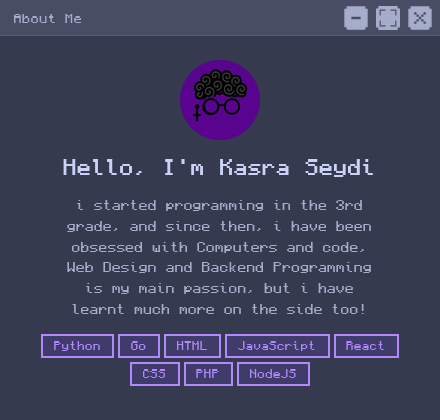
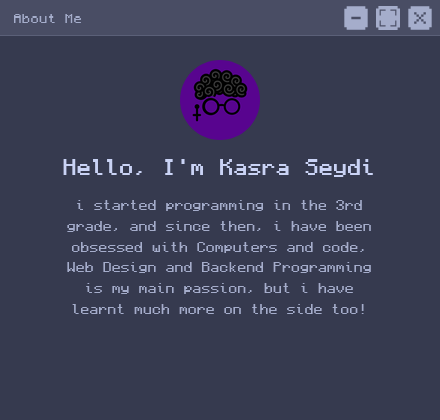
Removed the skill tags in about me

Changed region(s): [[0.0886, 0.7738, 0.9159, 0.9286]]

diff --git a/README.md b/README.md
@@ -31,7 +31,7 @@
 <div style="font-size:0; text-align:center;">
   <img src="assets/images/checkitout.png" width="800" alt="Resume Title" style="display:block; margin:0 auto;">
   <a href="https://kasra-seydi.ir">
-    <img src="assets/images/clickme.png" width="600" alt="Website Link" style="display:block; margin:0 auto; margin-top: -40px;">
+    <img src="assets/images/clickme.png" width="600" alt="Website Link" style="display:block; margin:0 auto; margin-top: -40px">
   </a>
 </div>
 
